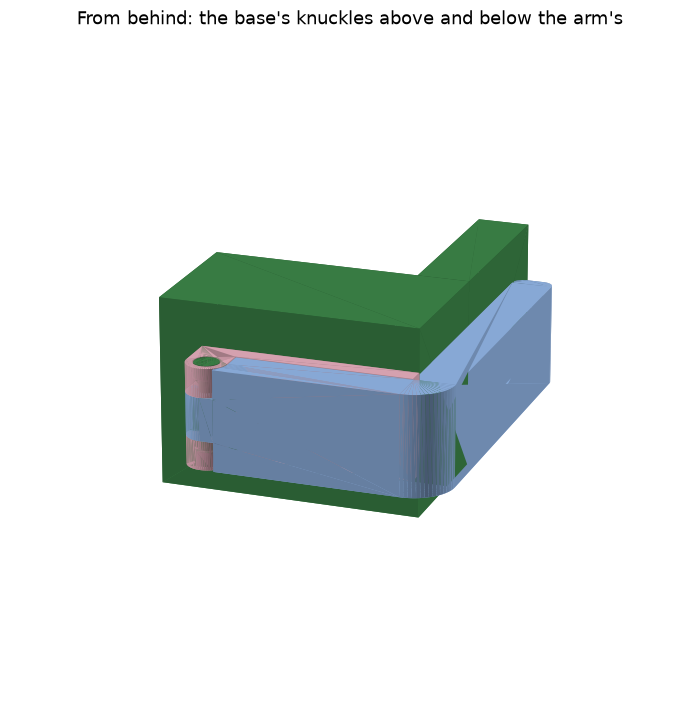
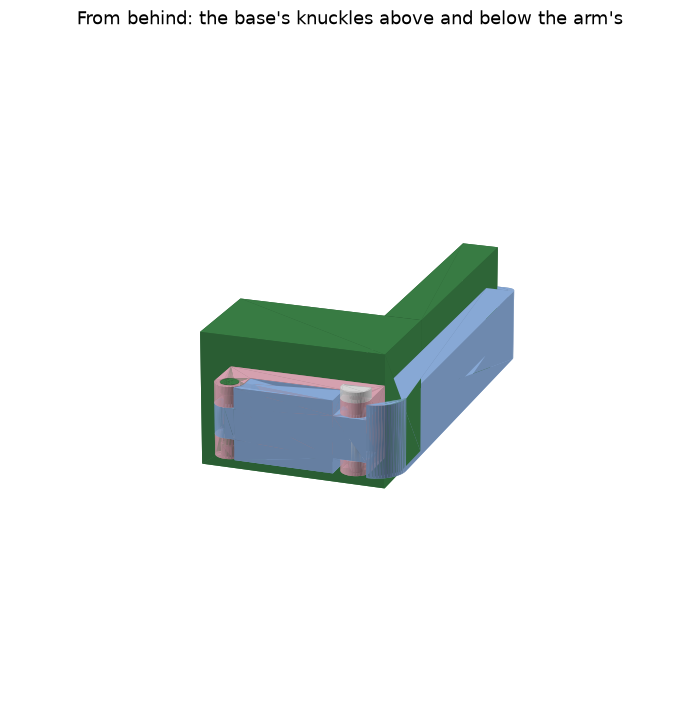
drawer-clamp: a pin through two front knuckles that locks the arm, a plate 11.5 mm thick, and a leg that ends 150 mm in

Changed region(s): [[0.2103, 0.3047, 0.8112, 0.7313]]

diff --git a/parts/drawer-clamp/part.py b/parts/drawer-clamp/part.py
@@ -5,6 +5,8 @@ the top and the bottom of its back, and an M5 bolt stands upright through both. 
 between the base's two. The arm is an angle: one leg lies along the side, over the base, and the other goes round
 the corner and across the drawer's front. It swings out sideways to let the drawer go. The bolt's head is sunk in the upper knuckle and its
 locknut in a pocket in the lower one, both level with the outside, and the bolt is tightened until the arm turns stiffly.
+At its front the base has two more knuckles, and the arm's leg runs between them. A printed pin drops through the
+three and locks the arm shut.
 
 Every size is a named constant below. Coordinates: x across from the outside of the cupboard's side, toward the
 drawer, y deep from the front of the side and the drawer, into the cupboard, z up from the base's underside.
@@ -34,12 +36,12 @@ CORNER = (Align.MIN, Align.MIN)  # a rectangle placed by its corner nearest the 
 BLOCK = (Align.MIN, Align.MIN, Align.MIN)
 
 SIDE = 50  # the cupboard's side, thick, the user's measurement
-REACH = 100  # the arm's end, across, from the outside of the cupboard's side, the user's choice
+REACH = 150  # the arm's end, across, from the outside of the cupboard's side, the user's choice
 LENGTH = 75  # the base, from the front of the side back
 LUG = 10  # each of the base's two knuckles, at its top and its bottom, up
 GRIP = 0.05  # between the arm's knuckle and each of the base's: less than a sliding fit, so the bolt closes the base's knuckles onto the arm's and the arm turns stiffly
 CLEAR = 0.5  # between the arm and what it lies along or turns past: the side, the drawer's front and the base
-PLATE = 6  # the base's plate against the cupboard's side, thick
+PIN_FROM = 12  # the pin and its head, from the cupboard's side, the user's choice: an overhang above the base stands 10 mm out from the side, the user's measurement, and the pin drops in past it
 KNUCKLE = 14  # a knuckle of the hinge, across
 BOLT = 5.0  # an M5 socket cap bolt's thread, ISO 4762
 BOLT_LENGTH = 30  # that bolt, under its head: 35 mm with its head, the user's measurement
@@ -55,11 +57,20 @@ SCREW_FROM = 10  # the first screw, from the base's front
 SCREW_APART = 40  # between the two screws, front to back
 END_ROUND = 4  # the radius of the two upright corners at the arm's end
 TIP = 1.2  # the least the leg is thick where it runs out round the base's knuckles: three lines of the nozzle
+FRONT_LUG = 7  # each of the base's two front knuckles, at its top and its bottom, up
+LUG_GAP = 0.3  # between the arm and each front knuckle, above and below: it slides
+SWING = 1.5  # behind the front knuckles, to the arm's leg: room for the leg's swing round the bolt
+PIN = 6  # the pin that locks the arm, across
+PIN_ROOM = 0.25  # a side, round the pin in its hole: it slides
+PIN_POINT = 2  # the pin's lower end, which narrows by PIN_POINT / 2 a side, so it finds the holes
+PIN_HEAD = 14  # the pin's head, across: as wide as a knuckle
+PIN_HEAD_HIGH = 5  # the pin's head, up from the base's top
 SHOWN = 15  # how far the pictures show the cupboard's side and the drawer's front past the clamp
 DRAWER_SHOWN = 18  # how thick the pictures show the drawer's front: it is not measured
 
 HEIGHT = BOLT_LENGTH + BOLT_HEAD_HIGH  # the base and the arm, up: the bolt with its head, so its head is level with the top and its end with the underside
 RADIUS = KNUCKLE / 2  # a knuckle's radius
+PLATE = PIN_FROM + PIN_HEAD / 2 - CLEAR - RADIUS  # the base's plate against the cupboard's side, thick: it puts the pin's head PIN_FROM from the side
 ARM = KNUCKLE  # the arm's two legs, thick: as thick as its knuckle is across, so the leg's two faces run on from the knuckle's
 BOLT_X = -(PLATE + CLEAR + RADIUS)  # the bolt, across: the arm's knuckle turns CLEAR from the base's plate
 BOLT_Y = LENGTH - RADIUS  # the bolt, deep: the knuckles end with the base's back
@@ -71,6 +82,12 @@ LEG_END = BOLT_Y - RADIUS - CLEAR  # where the arm's leg along the side ends at 
 # On the outside the leg goes on round the knuckles, hollow, CLEAR from their round side, up to where it is TIP thick.
 TIP_END = BOLT_Y - math.sqrt((RADIUS + CLEAR) ** 2 - (RADIUS - TIP) ** 2)
 ARM_IN = -PLATE - CLEAR  # the inside of the arm's leg along the side, which faces the base's plate
+ARM_OUT = ARM_IN - ARM  # the outside of that leg
+PIN_Y = RADIUS  # the pin, deep: the front knuckles end with the base's front. Across, it stands where the bolt does
+WEB_LOW = FRONT_LUG + LUG_GAP  # the underside of the arm's leg between the front knuckles, up
+WEB_HIGH = HEIGHT - FRONT_LUG - LUG_GAP  # the top of the arm's leg between the front knuckles, up
+PIN_HOLE = PIN / 2 + PIN_ROOM  # the radius of the hole the pin slides through
+PIN_FLAT = PIN / 2 / math.sqrt(2)  # the pin's flat, from its middle: its round sides rise from the flat at 45°
 ARM_BACK = -CLEAR  # the back of the arm's leg across the front, which faces the side's front edge and the drawer's front
 HEAD_SINK = BOLT_HEAD_HIGH  # the hole for the bolt's head, down from the base's top: the head is level with the top
 NUT_SINK = NUT_HIGH  # the pocket for the nut, up from the base's underside: the nut is level with the underside, and so is the bolt's end
@@ -83,7 +100,7 @@ SEAT_DEPTH = (SEAT - SHAFT) / math.tan(math.radians(HEAD_ANGLE / 2))  # the cone
 VIEWS = (
     ("angle.png", 30, -125, None),
     ("above.png", 90, -90, "From above: the arm closed, round the corner of the cupboard's side"),
-    ("side.png", 15, 170, "From the side: the arm's leg over the base, and the bolt's head sunk in the upper knuckle"),
+    ("side.png", 15, 170, "From the side: the pin through the front knuckles, and the bolt's head sunk in the upper knuckle at the back"),
     ("under.png", -40, 160, "From below: the locknut in its pocket in the lower knuckle"),
     ("back.png", 20, -160, "From behind: the base's knuckles above and below the arm's"),
 )
@@ -93,6 +110,10 @@ def bolt_hole():
     return Pos(BOLT_X, BOLT_Y, -CUT) * Cylinder(BOLT_HOLE, HEIGHT + 2 * CUT, align=MIN)
 
 
+def pin_hole():
+    return Pos(BOLT_X, PIN_Y, -CUT) * Cylinder(PIN_HOLE, HEIGHT + 2 * CUT, align=MIN)
+
+
 def base():
     """The plate against the cupboard's side, with a knuckle on it at the top and the bottom of its back. A knuckle
     is square where it stands on the plate and round on the outside, about the bolt."""
@@ -100,7 +121,11 @@ def base():
     knuckle = Pos(BOLT_X, BOLT_Y) * Circle(RADIUS) + Pos(BOLT_X, BOLT_Y - RADIUS) * Rectangle(-BOLT_X, KNUCKLE, align=CORNER)
     for z in (0, HEIGHT - LUG):
         whole += Pos(0, 0, z) * extrude(knuckle, LUG)
-    whole -= bolt_hole()
+    # The front knuckles have the same outline, about the pin.
+    front = Pos(BOLT_X, PIN_Y) * Circle(RADIUS) + Pos(BOLT_X, PIN_Y - RADIUS) * Rectangle(-BOLT_X, KNUCKLE, align=CORNER)
+    for z in (0, HEIGHT - FRONT_LUG):
+        whole += Pos(0, 0, z) * extrude(front, FRONT_LUG)
+    whole -= bolt_hole() + pin_hole()
     whole -= Pos(BOLT_X, BOLT_Y, HEIGHT - HEAD_SINK) * Cylinder(HEAD_HOLE, HEAD_SINK + CUT, align=MIN)
     # The nut's pocket has a flat toward the plate and one away from it, so on the plate its top is a flat bridge.
     hexagon = Rot(0, 0, 30) * RegularPolygon(NUT_POCKET, 6, major_radius=False)
@@ -132,7 +157,25 @@ def arm():
         square = Pos(REACH - END_ROUND / 2 + CUT / 2, y + toward * (END_ROUND - CUT) / 2) * Rectangle(END_ROUND + CUT, END_ROUND + CUT)
         legs -= square - Pos(REACH - END_ROUND, y + toward * END_ROUND) * Circle(END_ROUND)
     knuckle = Pos(BOLT_X, BOLT_Y) * Circle(RADIUS) + Pos(ARM_IN - ARM, LEG_END - JOIN) * Rectangle(ARM, BOLT_Y - LEG_END + JOIN, align=CORNER)
-    return extrude(legs, HEIGHT) + Pos(0, 0, ARM_LOW) * extrude(knuckle, ARM_HIGH - ARM_LOW) - bolt_hole()
+    whole = extrude(legs, HEIGHT) + Pos(0, 0, ARM_LOW) * extrude(knuckle, ARM_HIGH - ARM_LOW) - bolt_hole() - pin_hole()
+    # The base's front knuckles sit in a cut across the leg along the side, above and below. The cut runs from the
+    # back of the leg across the front to SWING behind the knuckles.
+    cut = Pos(ARM_OUT - CUT, ARM_BACK) * Rectangle(ARM + 2 * CUT, KNUCKLE + SWING - ARM_BACK, align=CORNER)
+    whole -= Pos(0, 0, -CUT) * extrude(cut, WEB_LOW + CUT)
+    return whole - Pos(0, 0, WEB_HIGH) * extrude(cut, HEIGHT - WEB_HIGH + CUT)
+
+
+def pin():
+    """The pin that locks the arm: a round rod through the base's front knuckles and the arm's leg between them, with
+    a point below and a round head that rests on the upper knuckle. One side is flat, rod and head, and it prints
+    lying on that."""
+    whole = (
+        Pos(BOLT_X, PIN_Y) * Cone(PIN / 2 - PIN_POINT / 2, PIN / 2, PIN_POINT, align=MIN)
+        + Pos(BOLT_X, PIN_Y, PIN_POINT) * Cylinder(PIN / 2, HEIGHT - PIN_POINT, align=MIN)
+        + Pos(BOLT_X, PIN_Y, HEIGHT) * Cylinder(PIN_HEAD / 2, PIN_HEAD_HIGH, align=MIN)
+    )
+    # The flat faces the cupboard's side.
+    return whole - Pos(BOLT_X + PIN_FLAT, PIN_Y - PIN_HEAD / 2 - CUT, -CUT) * Box(PIN_HEAD, PIN_HEAD + 2 * CUT, HEIGHT + PIN_HEAD_HIGH + 2 * CUT, align=BLOCK)
 
 
 def bolt():
@@ -160,12 +203,14 @@ def main():
     # round on top, and the screws' holes are upright. The knuckles' layers lie across them: the bolt bends each
     # one GRIP at most before it rests on the arm's knuckle.
     # The arm prints lying as it sits, so every layer is the whole angle, and the drawer's push bends it along the
-    # layers. Its knuckle and the neck to it hang LUG above the plate, so they print on supports.
+    # layers. Its knuckle and the neck to it hang LUG above the plate, so they print on supports, and so does the
+    # leg between the front knuckles.
+    # The pin prints lying on its flat, so its layers run along it and the arm's pull does not split them.
     plate.run(
         HERE,
-        printed={"base": base(), "arm": arm()},
+        printed={"base": base(), "arm": arm(), "pin": pin()},
         bought={"bolt": bolt(), "side": side(), "drawer": drawer()},
-        turn={"base": Rot(0, 90, 0)},
+        turn={"base": Rot(0, 90, 0), "pin": Rot(0, 90, 0)},
         slicer={"arm": {"enable_support": "1"}},
         views=VIEWS,
     )

diff --git a/parts/drawer-clamp/README.md b/parts/drawer-clamp/README.md
@@ -5,7 +5,9 @@ its front edge back. Its plate has a knuckle on it at the top and the bottom of 
 stands upright through both, with its head sunk in the upper one and its locknut in the lower
 one, both level with the outside. An arm turns on the bolt, with its knuckle between the base's two.
 The arm is an angle, as high as the base: one leg lies along the side, over the base, and the
-other goes round the corner and across the drawer's front. It swings out sideways, and the drawer is free.
+other goes round the corner and across the drawer's front. At its front end the base has two more
+knuckles, with the arm's leg between them, and a printed pin drops through the three and locks
+the arm shut. With the pin lifted out the arm swings out sideways, and the drawer is free.
 
 ![drawer-clamp](pictures/angle.png)
 
@@ -22,19 +24,23 @@ other goes round the corner and across the drawer's front. It swings out sideway
 | Printed | Count | Prints | Supports |
 | --- | --- | --- | --- |
 | `base` | 1 | On its back, the face that lies against the cupboard | None |
-| `arm` | 1 | Lying as it sits | Under its knuckle |
+| `arm` | 1 | Lying as it sits | Under its knuckle and under its leg between the front knuckles |
+| `pin` | 1 | Lying on its flat | None |
 
 | Bought | Count | Source |
 | --- | --- | --- |
 | M5 × 30 socket cap bolt (ISO 4762), 35 mm long with its head | 1 | In the house |
 | M5 locknut (DIN 985) | 1 | Hardware store |
-| Countersunk chipboard screw, 4 × 30 mm, 8 mm head (DIN 7997), with 6 mm of its length in the base | 2 | Hardware store |
+| Countersunk chipboard screw, 4 × 30 mm, 8 mm head (DIN 7997), with 11.5 mm of its length in the base | 2 | Hardware store |
 
 The cupboard's side is 50 mm thick, and the drawer's front is flush with its front edge.
 
+An overhang above the base stands 10 mm out from the side. The pin and its head stand 12 mm or
+more from the side, so the pin drops in past the overhang.
+
 The base and the arm are both 35 mm high, the bolt's length with its head.
 
-The base is 75 mm long, from the side's front edge back. Its plate against the side is 6 mm
+The base is 75 mm long, from the side's front edge back. Its plate against the side is 11.5 mm
 thick and runs the base's whole length and height. A knuckle stands on the plate at the top and
 at the bottom of its back end. Each is 10 mm high, 14 mm long and 14.5 mm out from the plate,
 square where it stands on the plate and round on the outside. Two screws go through the plate
@@ -42,7 +48,7 @@ into the side, 10 and 50 mm behind the front edge and 17.5 mm up, with their hea
 the plate's outside. Each hole is the screw with the `screw_hole` fit from `printers.toml` on
 either side.
 
-The bolt stands 13.5 mm outside the cupboard's side and 68 mm behind its front edge. Its hole
+The bolt stands 19 mm outside the cupboard's side and 68 mm behind its front edge. Its hole
 is the bolt with the `screw_hole` fit on either side, and the arm turns on it. The head sits in
 a round hole in the upper knuckle's top, 9.5 mm across and 5 mm deep, level with the top, with
 0.5 mm round it. The locknut sits in a hex pocket in the lower knuckle's underside, 5 mm deep,
@@ -59,20 +65,36 @@ screws. It has its full height up to 0.5 mm before the base's knuckles, and a ne
 the arm's knuckle joins the two. On the outside half the leg's end is hollow: it goes on round
 the base's knuckles, 0.5 mm from their round side, and stops where it is 1.2 mm thick, 4.8 mm
 before the bolt. At the front the leg turns 90° into the other leg, which lies
-0.5 mm in front of the side's edge and the drawer's front and ends 100 mm in from the outside of
-the side. So 50 mm of it lies on the side's front edge and 50 mm on the drawer's front. The
+0.5 mm in front of the side's edge and the drawer's front and ends 150 mm in from the outside of
+the side. So 50 mm of it lies on the side's front edge and 100 mm on the drawer's front. The
 outside of the corner is round, with a 14 mm radius, and the inside is square. The two upright
 corners at the arm's end are round, with a 4 mm radius.
 
+A knuckle stands on the plate at the top and at the bottom of its front end too, with the same
+outline and 7 mm high. The pin stands in them 19 mm outside the side and 7 mm behind its front
+edge. The arm's leg along the side is cut away above and below, from the back of the other leg
+to 1.5 mm behind the front knuckles, and what is left runs between them, 20.4 mm high, with
+0.3 mm above and below. Through the arm's whole swing it stays clear of the front knuckles. The
+screw at the front lies between the two knuckles and is reached between them.
+
+The pin is 6 mm across and 35 mm long, with a point 2 mm long at its lower end. Its hole in the
+knuckles and the leg is the pin with 0.25 mm on either side: it slides. Its head is 14 mm
+across and 5 mm high and rests on the upper knuckle. One side of the pin and its head is flat,
+2.1 mm from the middle.
+
 The base prints on its back. The knuckles stand up from the plate, round on top, and the
-screws' holes are upright. The bolt's hole, the hole for its head and the nut's pocket lie
-level. Their tops bridge 5 mm, 9.5 mm and 5 mm, the pocket's along one of its flats. The base
+screws' holes are upright. The bolt's hole, the hole for its head, the nut's pocket and the pin's hole lie
+level. Their tops bridge 5 mm, 9.5 mm, 5 mm and 6.5 mm, the pocket's along one of its flats. The base
 takes no supports. The knuckles' layers lie across them. The bolt bends each knuckle 0.05 mm at
 most before it rests on the arm's knuckle, and from there the bolt presses the three together.
 
 The arm prints lying as it sits. Every layer is the whole angle, so the drawer's push bends the
-arm along its layers. Its knuckle and the neck to it hang 10 mm above the plate and print on
-supports, which the plate turns on for this piece (`enable_support`).
+arm along its layers. Its knuckle and the neck to it hang 10 mm above the plate, and its leg
+between the front knuckles 7.3 mm. Both print on supports, which the plate turns on for this
+piece (`enable_support`).
+
+The pin prints lying on its flat. Its layers run along it, so the arm's pull does not split
+them. Its round sides rise from the flat at 45°, and it takes no supports.
 
 ## Putting it together
 
@@ -84,6 +106,9 @@ supports, which the plate turns on for this piece (`enable_support`).
 4. Push the bolt down through the three knuckles and turn it into the nut with a 4 mm hex key.
 5. Tighten the bolt until the arm turns stiffly and stays where it is put.
 6. Swing the arm shut, round the corner and across the drawer's front.
+7. Drop the pin through the front knuckles, from above.
+
+To open it, lift the pin out and swing the arm out.
 
 To take it off, undo the bolt, slide the arm out and take out the two screws.
 

diff --git a/README.md b/README.md
@@ -37,7 +37,7 @@ and each print is a commit.
 | [`bekant-net-holder`](parts/bekant-net-holder/) | A holder for the IKEA Bekant's cable net: a plug with barbs and the pin that locks it |
 | [`drawer-glass-clip`](parts/drawer-glass-clip/) | A channel that connects a plate of glass to the front of a drawer |
 | [`door-switch-clamp`](parts/door-switch-clamp/) | A clamp that holds the door switch for the light and covers its wires |
-| [`drawer-clamp`](parts/drawer-clamp/) | A clamp that keeps a drawer shut: a base on the cupboard's side and an angled arm that turns on an M5 bolt |
+| [`drawer-clamp`](parts/drawer-clamp/) | A clamp that keeps a drawer shut: a base on the cupboard's side, an angled arm that turns on an M5 bolt, and a pin that locks the arm shut |
 
 ## Setup
 
